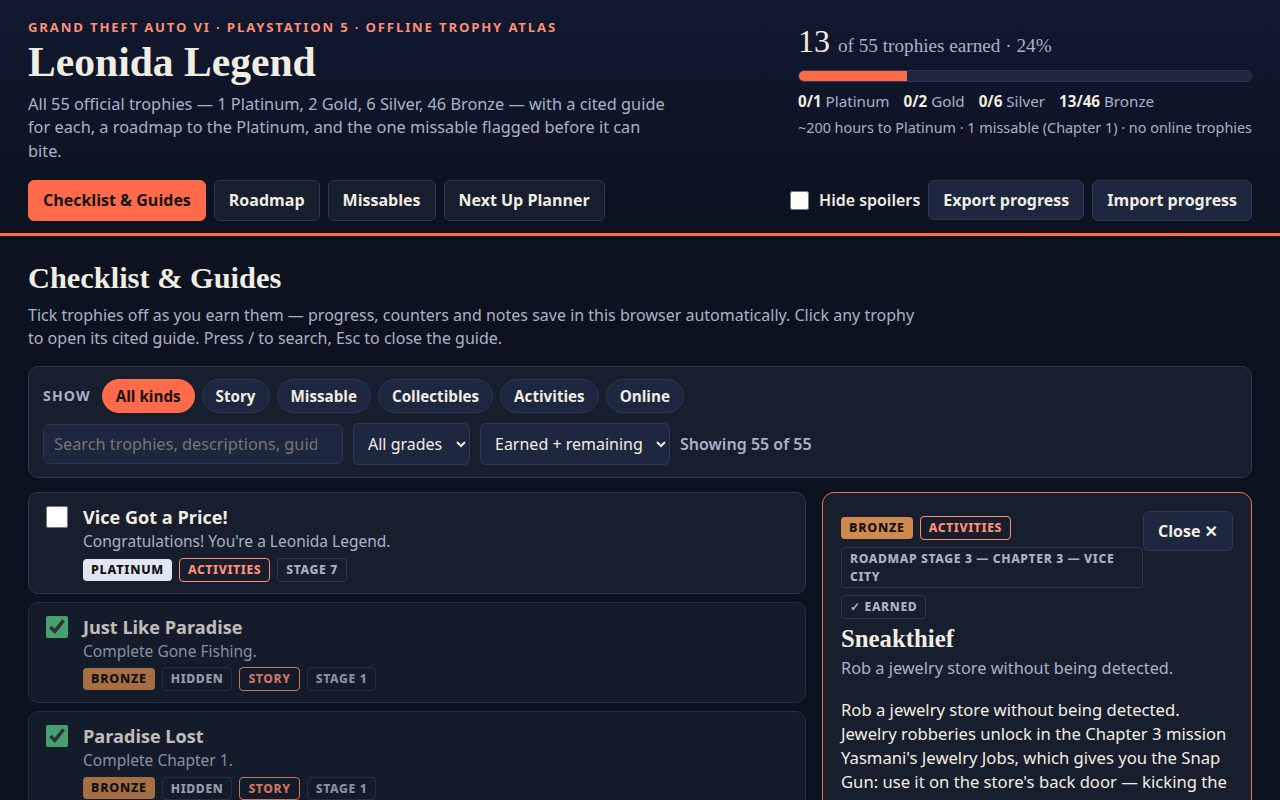
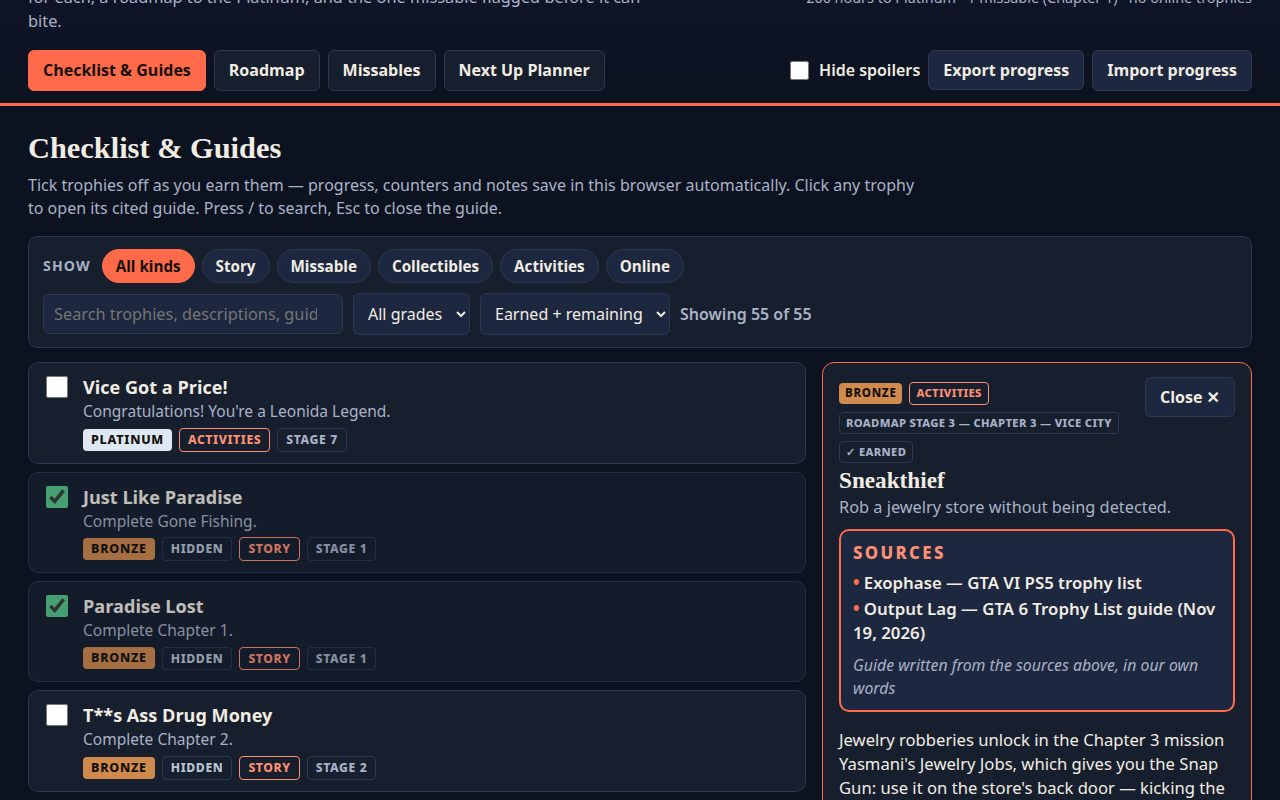
v2: sources block at top of guide pane (judge criterion 3), guides no longer repeat descriptions, sources line on missable card, screenshots re-shot

diff --git a/app/js/views/detail.js b/app/js/views/detail.js
@@ -1,6 +1,7 @@
 // Leonida Legend — detail view: one trophy's full guide in the pane beside the checklist.
-// Shows the official name/description/grade, the atlas's own-words guide, any missable or caution
-// banner, its counter progress, its roadmap stage, its cited sources, and a personal note.
+// Shows the official name/description/grade, a prominent SOURCES block at the top of the pane
+// (so a citation is always visible beside the guide), any missable or caution banner, the
+// atlas's own-words guide, its counter progress, its roadmap stage, and a personal note.
 import { isEarned, setCounter, setNote, counterOf } from '../store.js';
 import { gradeLabel, stageOf, isMasked, displayName, displayDescription, formatCount } from '../data.js';
 
@@ -95,6 +96,33 @@ export function renderDetail(pane, trophy, ctx) {
   desc.textContent = displayDescription(state, trophy);
   pane.append(close, meta, h, desc);
 
+  // SOURCES block: first thing under the name/description, above the guide, so the citation
+  // is always in frame beside the advice it backs. One line per source, then an honesty
+  // status: unverified guidance is flagged as our own advice, everything else states it was
+  // written from the sources above in our own words.
+  const sourcesBox = document.createElement('div');
+  sourcesBox.className = 'sources-box';
+  const sourcesHeading = document.createElement('div');
+  sourcesHeading.className = 'sources-heading';
+  sourcesHeading.textContent = 'SOURCES';
+  sourcesBox.append(sourcesHeading);
+  for (const source of trophy.sources) {
+    const line = document.createElement('div');
+    line.className = 'sources-item';
+    line.textContent = source;
+    sourcesBox.append(line);
+  }
+  const sourcesStatus = document.createElement('div');
+  if (trophy.guide.includes('not yet pinned down')) {
+    sourcesStatus.className = 'sources-status sources-status-advice';
+    sourcesStatus.textContent = '⚠ Our own advice — not yet checked in the game';
+  } else {
+    sourcesStatus.className = 'sources-status';
+    sourcesStatus.textContent = 'Guide written from the sources above, in our own words';
+  }
+  sourcesBox.append(sourcesStatus);
+  pane.append(sourcesBox);
+
   if (trophy.missable) {
     const alert = document.createElement('div');
     alert.className = 'alert alert-missable';
@@ -142,11 +170,4 @@ export function renderDetail(pane, trophy, ctx) {
   note.value = state.notes[trophy.id] ?? '';
   note.addEventListener('input', () => setNote(state, trophy.id, note.value));
   pane.append(noteLabel, note);
-
-  const sources = document.createElement('p');
-  sources.className = 'sources-line';
-  const sb = document.createElement('b');
-  sb.textContent = 'Sources: ';
-  sources.append(sb, document.createTextNode(trophy.sources.join(' · ')));
-  pane.append(sources);
 }

diff --git a/app/css/components.css b/app/css/components.css
@@ -88,11 +88,14 @@
   background: var(--panel);
   border: 1px solid var(--accent);
   border-radius: 12px;
-  padding: 18px;
+  padding: 14px 16px;
   position: sticky;
   top: 14px;
 }
-.detail-pane h2 { font-size: 1.55rem; line-height: 1.15; margin: 6px 0 4px; }
+.detail-pane h2 { font-size: 1.45rem; line-height: 1.15; margin: 4px 0 2px; }
+.detail-pane .detail-desc { margin-bottom: 8px; }
+.detail-pane .badge { font-size: 0.7rem; padding: 2px 6px; letter-spacing: 0.03em; }
+.detail-pane .grade-chip { font-size: 0.72rem; padding: 2px 6px; }
 .detail-desc { color: var(--muted); font-size: 1.02rem; margin: 0 0 10px; }
 .detail-guide { font-size: 1.04rem; }
 .detail-close { float: right; }
@@ -104,6 +107,24 @@
 .alert b { text-transform: uppercase; letter-spacing: 0.05em; }
 .sources-line { border-top: 1px solid var(--line); margin-top: 14px; padding-top: 10px; color: var(--muted); font-size: 0.92rem; }
 .sources-line b { color: var(--paper); }
+.sources-box {
+  border: 2px solid var(--accent);
+  background: var(--panel-2);
+  border-radius: 10px;
+  padding: 10px 12px;
+  margin: 10px 0 4px;
+}
+.sources-heading {
+  font-weight: 800; font-size: 1.05rem; letter-spacing: 0.14em;
+  text-transform: uppercase; color: var(--accent-soft); margin-bottom: 4px;
+}
+.sources-item { font-size: 1.05rem; font-weight: 600; padding: 1px 0; }
+.sources-item::before { content: '• '; color: var(--accent); font-weight: 800; }
+.sources-status { margin-top: 7px; font-size: 0.99rem; color: var(--muted); font-style: italic; }
+.sources-status-advice {
+  color: #241a02; background: var(--warn); font-style: normal; font-weight: 800;
+  border-radius: 6px; padding: 7px 10px; text-transform: uppercase; letter-spacing: 0.04em;
+}
 .note-area {
   width: 100%; min-height: 64px; background: var(--panel-2); color: var(--paper);
   border: 1px solid var(--line); border-radius: 8px; padding: 9px; margin-top: 6px;
@@ -135,6 +156,7 @@
 }
 .missable-hero h3 { font-size: 1.4rem; margin-bottom: 6px; }
 .missable-hero p { margin: 4px 0; }
+.missable-hero .sources-line { border-top: 1px solid rgba(255, 255, 255, 0.35); color: var(--paper); font-size: 1.02rem; }
 .card-grid { display: grid; grid-template-columns: repeat(auto-fit, minmax(330px, 1fr)); gap: 14px; }
 .card-grid-4 { grid-template-columns: repeat(4, 1fr); }
 .card-grid-4 .info-card { padding: 13px 14px; }

diff --git a/app/js/views/missables.js b/app/js/views/missables.js
@@ -44,10 +44,15 @@ export function renderMissables(view, ctx) {
   const hp = document.createElement('p');
   hp.textContent = missable.guide;
   const hs = document.createElement('p');
-  hs.className = 'sources-line';
+  hs.className = 'sources-line hero-source';
   const hb = document.createElement('b');
-  hb.textContent = 'Sources: ';
-  hs.append(hb, document.createTextNode(missable.sources.join(' · ')));
+  hb.textContent = 'Source: ';
+  const outputLag = missable.sources.find((s) => s.startsWith('Output Lag')) ?? missable.sources[0];
+  const rest = missable.sources.filter((s) => s !== outputLag);
+  hs.append(hb, document.createTextNode(outputLag));
+  if (rest.length) {
+    hs.append(document.createTextNode(` · Trophy data: ${rest.join(' · ')}`));
+  }
   hero.append(hh, hp, hs);
   view.append(hero);
 
